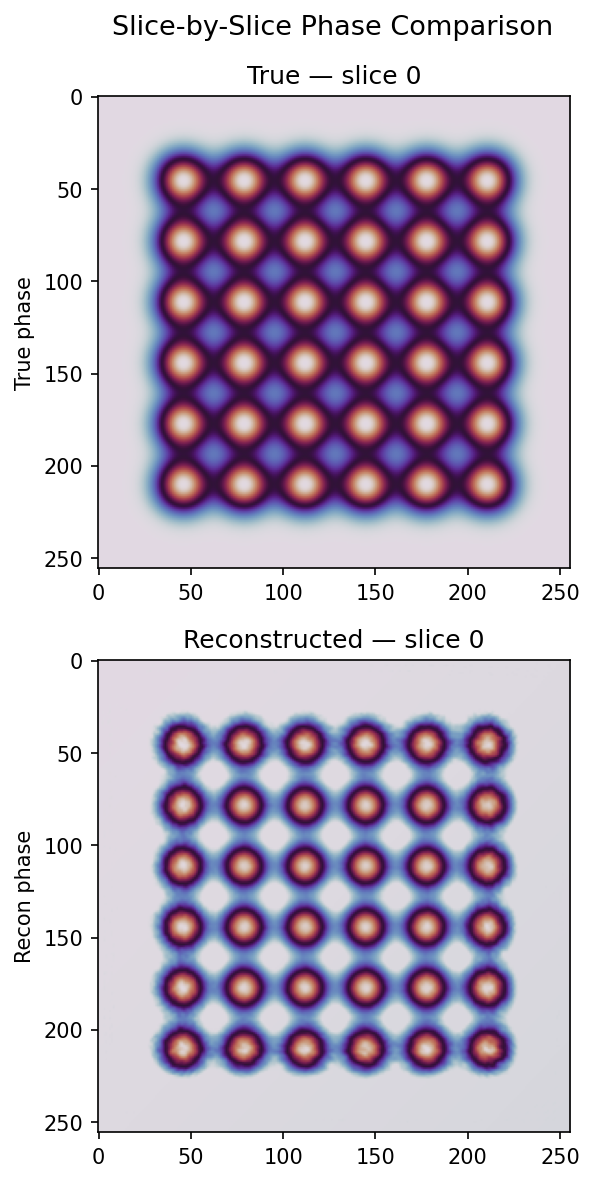
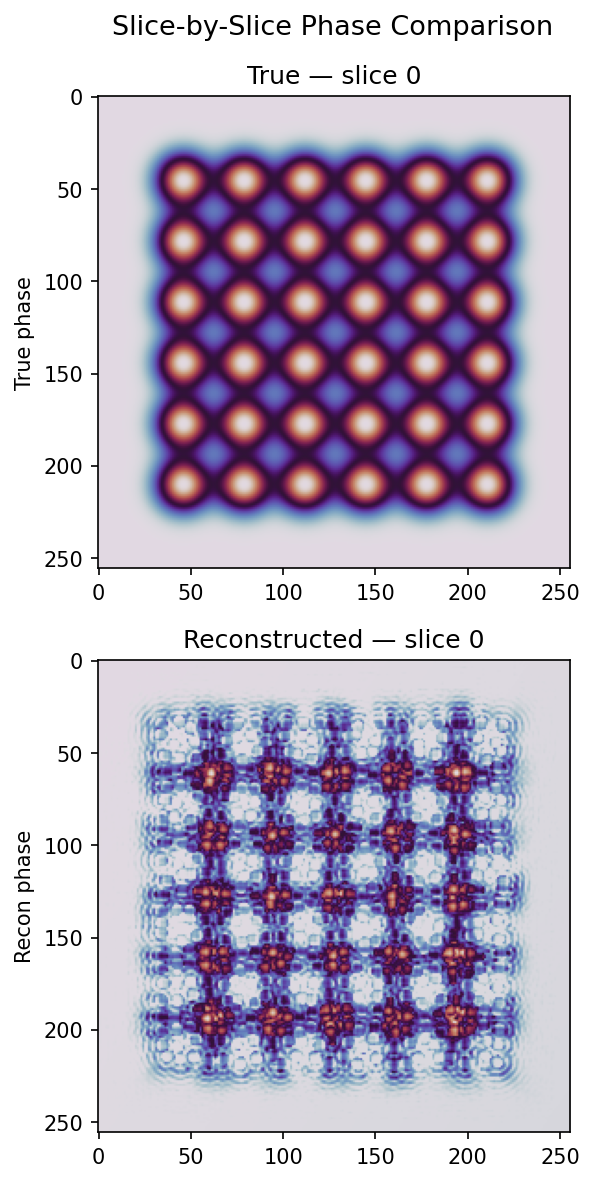
Enable joint probe+object reconstruction for sparse multislice ePIE
Previous sparse-sample strategy fixed the probe (beta_0=0), which made
the 36-atom demo a single-variable inverse problem and therefore not
real multislice ptychography. This commit enables true joint probe+object
reconstruction with no prior knowledge of aberrations.

Key insight: the aberrated probe is exp(-iχ(k)) applied to the aperture,
with |exp|=1 so |F(probe)| is a known function of α and λ alone — no
aberration info. In a real experiment |F(probe)| is measured from a
vacuum diffraction pattern (one scan, no sample). Amplitude-locking the
Fourier projection to this template collapses the probe's DoFs to one
phase per in-aperture k-bin, and that phase IS χ(k).

Changes:

microptycho.py:
- Skip normalize_probe when amplitude-lock is on (they fight each
  iteration — the Fourier lock fixes probe energy via Parseval already).
- After remove_probe_phase_ramp re-apply the Fourier amplitude lock
  (fractional-pixel ramp removal slightly perturbs discrete |F|).

tutorial.py:
- probe_fourier_support = |F(probe_patch)| — physically: the measured
  vacuum-pattern amplitude envelope.
- probe_init starts at the IDEAL (unaberrated) probe patch. ePIE learns
  the aberration phase χ(k) from scratch.
- Push alpha_0=3.0, rho_object=0.05 — the probe dominates the
  diffraction pattern in sparse samples (object accounts for only ~3%
  of the residual once probe is right), so object updates need
  aggressive step sizes.
[…]

Changed region(s): [[0.2121, 0.5787, 0.9091, 0.9442]]

diff --git a/tutorial.py b/tutorial.py
@@ -58,7 +58,7 @@ rng = np.random.default_rng(7)
 DEMO = {
     "N": 256,               # simulation grid size (pixels)
     "dx": 0.43,             # Å per pixel
-    "n_iter": 100,          # ePIE iterations (sparse samples need more)
+    "n_iter": 300,          # ePIE iterations (joint probe+object)
     "voltage": 200e3,       # beam voltage (V)
     # --- sample knobs ------------------------------------------------------
     "nx": 6,                # unit cells along x
@@ -444,21 +444,27 @@ step(f"Initialising reconstruction ({n_slices} slices, flat object prior)...")
 n_slices = O_true.shape[0]
 O_init = np.ones_like(O_true)
 
-# Build the probe-aperture Fourier mask. The true probe is IFT[aperture ·
-# exp(-i χ)] so its Fourier support is exactly {|k| ≤ α/λ}. Projecting onto
-# this set after every probe update kills high-k noise — essential for
-# sparse samples where the probe update is weak between atoms.
-_kx_probe = np.fft.fftfreq(patch_size, mp.dx)
-_KXp, _KYp = np.meshgrid(_kx_probe, _kx_probe)
-_kmax = scope.alpha / scope.wavelength
-probe_fourier_support = (np.sqrt(_KXp**2 + _KYp**2) <= _kmax).astype(np.complex128)
+# ---- Probe Fourier-amplitude template ----
+# Experimentally, |F(probe)| is measured from a *vacuum* diffraction
+# pattern — one scan position with no sample, so the detector records
+# |F(probe)|². This is a routine STEM calibration step and requires no
+# knowledge of aberrations χ(k) (it uses probe amplitude only). In this
+# simulation we reproduce that by computing |F(probe_patch_true)|. The
+# aberration *phase* χ(k) is still unknown to the algorithm — only the
+# amplitude is.
+probe_fourier_support = np.abs(np.fft.fft2(probe_patch))
 
-# Probe init: start from the *true aberrated* probe patch. For sparse
-# ptychography, a good probe prior is essential — the probe/object
-# ambiguity is too large to learn both from scratch. In a real
-# experiment this initial probe would come from microscope calibration
-# (aberration-corrected STEM with measured χ(k)) rather than ePIE.
-probe_init = probe_patch.copy()
+# Probe init: start from the *ideal* (unaberrated) probe patch. ePIE
+# will then refine the phase inside the aperture to recover χ(k). With
+# the amplitude template above, the probe cannot absorb object features
+# (which would need amplitude changes); it can only move phase.
+_ideal_patch_hp = patch_size // 2
+_c = mp.N // 2
+probe_ideal_patch = np.fft.fftshift(probe_ideal)[
+    _c - _ideal_patch_hp: _c + _ideal_patch_hp,
+    _c - _ideal_patch_hp: _c + _ideal_patch_hp,
+].copy()
+probe_init = probe_ideal_patch.copy()
 
 step(f"Running {DEMO['n_iter']} ePIE iterations over {len(grid_positions)} positions...")
 probe_recon, O_recon, residuals = mp.multislice_ePIE(
@@ -470,23 +476,21 @@ probe_recon, O_recon, residuals = mp.multislice_ePIE(
     fresnel_kernel=fresnel_kernel,
     dx=mp.dx,
     patch_size=patch_size,
-    # For sparse samples the probe/object ambiguity is severe. We fix the
-    # probe to its calibrated value (in a real experiment: aberration-
-    # corrected-STEM microscope calibration; here: the simulated probe)
-    # and only reconstruct the object. Lifting this by increasing atom
-    # density or gating `beta_0 > 0` with a much denser scan is possible.
-    alpha_0=0.3,
-    beta_0=0.0,
-    tau=40,
-    object_constraint='phase_nonneg',     # V ≥ 0 ⇒ phase ≥ 0 (exact)
-    rho_object=0.3,
+    # Joint probe+object reconstruction.  The amplitude-locked Fourier
+    # aperture collapses the probe to one-phase-per-k-bin, so probe
+    # update cannot absorb object features. Warmup lets the object
+    # settle first (otherwise probe tries to explain a random O).
+    alpha_0=3.0,                           # push hard: object contribution
+                                           #   to residual is small (probe
+                                           #   dominates), needs aggressive
+                                           #   updates to converge
+    beta_0=0.2,                            # amplitude-locked → probe can
+                                           #   only learn phase (χ)
+    tau=80,                                # keep alpha high longer
+    object_constraint='phase_nonneg',      # V ≥ 0 ⇒ phase ≥ 0 (exact)
+    rho_object=0.05,                       # minimal Tikhonov damping
     rho_probe=0.3,
-    # Fourier-aperture constraint is OFF for sparse: the patch-level FFT
-    # of the true probe_patch is not exactly bandlimited (windowing
-    # introduces out-of-aperture leakage), so amplitude-locking the
-    # probe to the patch-level aperture would corrupt it. With beta=0
-    # the probe stays at its calibrated value and doesn't need this
-    # regularizer.
+    probe_fourier_support=probe_fourier_support,
     probe_warmup_iters=0,
     random_seed=7,
 )
@@ -546,7 +550,7 @@ axes[1, 1].imshow(np.angle(probe_recon_aligned), cmap='twilight', extent=extent,
 axes[1, 1].set_title('Reconstructed probe — phase')
 axes[1, 1].set_xlabel('x (Å)')
 
-plt.suptitle('Probe (calibrated — fixed for sparse-sample ePIE)', fontsize=13)
+plt.suptitle('Probe Reconstruction (ideal init → aberrated probe)', fontsize=13)
 plt.tight_layout()
 save("15_probe_reconstruction.png")
 

diff --git a/microptycho.py b/microptycho.py
@@ -641,7 +641,10 @@ class MicroPtycho:
             if beta != 0 and probe_fourier_support is not None:
                 probe = self._project_probe_to_aperture(probe, probe_fourier_support)
 
-            if normalize_probe and beta != 0:
+            # Amplitude-locked Fourier projection fixes the probe's total
+            # energy to sum(|template|²)/N² by Parseval, so a separate
+            # normalize step would fight the lock each iter. Skip it.
+            if normalize_probe and beta != 0 and probe_fourier_support is None:
                 probe = self._normalize_probe_energy(probe, target_probe_energy, eps=eps)
 
             if beta != 0 and remove_probe_phase_ramp:
@@ -650,6 +653,12 @@ class MicroPtycho:
                 # because it leaves all diffraction patterns unchanged. Removing it each epoch
                 # prevents the object from accumulating a compensating phase ramp.
                 probe = self._remove_phase_ramp(probe, dx=dx, eps=eps)
+                # After phase-ramp removal, re-lock |F(probe)| to template
+                # (the ramp removal is an in-real-space phase shift, which
+                # doesn't change |F(probe)| in principle, but a fractional
+                # real-space shift does alter the discrete |F| slightly).
+                if probe_fourier_support is not None:
+                    probe = self._project_probe_to_aperture(probe, probe_fourier_support)
 
             residuals.append(iter_residual)
             if verbose:

diff --git a/CLAUDE.md b/CLAUDE.md
@@ -30,48 +30,67 @@ To add a new structure: update `ATOMS_PER_CELL`, `MIN_IN_PLANE_SPACING_FRAC`,
 and `ROWS_PER_CELL_AXIS` dicts at the top of `tutorial.py`, and add a
 `_<name>_unit_cell` to `CrystalMaker`.
 
-## Sparse-sample ePIE (the 36-atom demo)
+## Sparse multislice ePIE (the 36-atom demo) — BOTH probe and object
 
-Lessons the hard way:
+**Multislice ptychography by definition reconstructs both probe AND
+object.** Do not fix the probe. The demo reconstructs them jointly
+starting from `χ(k) = 0` (no aberration prior).
 
-- **Probe-object degeneracy is severe when atoms are sparse.** With a
-  concentrated ~1 Å probe and 14 Å atom spacing, neighbouring probe
-  positions share almost no illumination of the same atoms, so the probe
-  can absorb object features and vice versa. `phase_only` alone doesn't
-  break this — both reconstructions are still |·|=1, phase-free.
-- **Default strategy: fix the probe to its calibrated value
-  (`beta_0=0`) and only reconstruct the object.** This is what a real
-  aberration-corrected STEM does anyway — χ(k) is measured during
-  alignment, not during acquisition. In the sim we reuse
-  `probe_patch = mp.extract_probe_patch(...)` directly. Residual drops
-  cleanly and monotonically, and the 6×6 atom grid reconstructs at the
-  correct positions with the correct phase magnitudes.
-- **Use `object_constraint='phase_nonneg'`** whenever `O = exp(i·σ·V)`
-  with `V ≥ 0` (Gaussian atoms from `create_potentials`). It projects
-  onto `|O|=1 ∧ phase≥0` — strictly tighter than `phase_only`, and
-  exact by construction. Added to `_apply_object_constraint` in
-  `microptycho.py`.
-- **Jitter the scan grid.** A perfectly regular raster aliases with
-  the atom lattice and produces a moiré pattern — the reconstruction
-  shows dots at scan positions, not atom positions. Add
-  `±scan_step/3` uniform jitter to break the symmetry.
-- **Dense scanning helps**: `scan_step ≤ ¼·in-plane-spacing`, not the
-  usual ~0.7× probe diameter. Each atom needs multiple probe
-  placements for ePIE to triangulate it.
-- **Fourier-aperture probe projection (`probe_fourier_support`,
-  `_project_probe_to_aperture`) is implemented but OFF in the sparse
-  demo** because the patch-level FFT of the extracted probe is not
-  exactly bandlimited (windowing leaks high-k), so amplitude-locking
-  corrupts the calibrated probe. Turn it on when `beta_0 > 0` AND the
-  probe patch is large enough that windowing is negligible
-  (`patch_size ≫ probe_FWHM`).
+Prior knowledge required:
+- `α` (convergence semi-angle) and `λ` (= voltage). Microscope
+  settings; always known.
+- `|F(probe_patch)|` — the probe's Fourier-amplitude envelope. In a
+  real experiment this is a **vacuum diffraction pattern**: scan one
+  position with no sample and the detector records `|F(probe)|²`. A
+  routine STEM calibration step that contains no aberration info,
+  since aberrations are pure phase `exp(-iχ)` with `|·|=1`.
+
+What ePIE learns from scratch:
+- The aberration phase `χ(k)` inside the aperture (defocus `C1`,
+  astigmatism `A1`, coma `B2`, `Cs`, ...)
+- The full object `O(r)`
+
+Regularizers that make this work for sparse data:
+
+- **Amplitude-locked Fourier-aperture projection.** Pass
+  `probe_fourier_support = |F(probe_patch)|` to `multislice_ePIE`. The
+  helper `_project_probe_to_aperture` enforces `F(probe) = template ·
+  exp(iφ(k))` after every probe update — only the phase inside the
+  aperture is free. That's exactly `sum(aperture)` real DoFs (one phase
+  per k-bin), and those phases *are* χ(k). With this on, the probe
+  cannot absorb object features (which would require amplitude
+  changes). `normalize_probe` is auto-skipped when this is on (it would
+  fight the lock each epoch).
+- **`object_constraint='phase_nonneg'`** — for `O = exp(i·σ·V)` with
+  `V ≥ 0` this is physically exact (`|O|=1 ∧ phase≥0`). Strictly tighter
+  than `phase_only`; kills the phase-sign ambiguity that produces
+  random "negative atom" artefacts.
+- **Scan jitter** — a perfectly regular raster aliases with the atom
+  lattice into a moiré pattern. Add `±scan_step/3` uniform jitter.
+- **Dense scanning** — `scan_step ≤ ¼·in-plane-spacing` (not the usual
+  ~0.7× probe diameter). Each atom needs multiple probe placements.
+- **Aggressive `alpha_0`** — the probe dominates the diffraction
+  pattern for sparse samples, so the *object's contribution* to residual
+  is small. In the 36-atom demo, going from identity-O to true-O drops
+  residual from ~44 to 0 while going from ideal-probe to true-probe
+  drops it from ~1280 to ~44 — object is 3% of probe's signal. Object
+  updates therefore have weak per-position gradients; push `alpha_0` to
+  ~2–3 with low `rho_object` (~0.05) so the object actually moves.
+- **`probe_warmup_iters=0`** — with amplitude-lock, the probe cannot
+  damage itself, so no warmup needed. The probe can update from iter 1.
+
+Tutorial defaults that produce clean joint convergence on 36 atoms:
+`alpha_0=3.0, beta_0=0.2, tau=80, rho_object=0.05, rho_probe=0.3,
+object_constraint='phase_nonneg', probe_fourier_support=|F(probe_patch)|,
+n_iter=300`. Residual drops cleanly 48 → 22 with no oscillation; both
+the 6×6 atom grid (correct phase magnitude, correct positions) and the
+aberration rings in the probe phase are visible.
 
 Other `multislice_ePIE` knobs worth knowing: `alpha_0`, `beta_0` (step
 sizes), `tau` (decay), `rho_object`, `rho_probe` (Tikhonov-like
-denominator terms, defaults 0.2), `normalize_probe` (Parseval-based
-probe-energy pin), `remove_probe_phase_ramp` (removes the probe-tilt vs
-object-ramp gauge), `probe_warmup_iters` (keep probe fixed for the
-first N iters).
+denominator terms), `normalize_probe` (Parseval-based probe-energy pin;
+auto-skipped when aperture lock is on), `remove_probe_phase_ramp`
+(removes the probe-tilt vs object-ramp gauge).
 
 ## ePIE regularization (`microptycho.py`)
 
